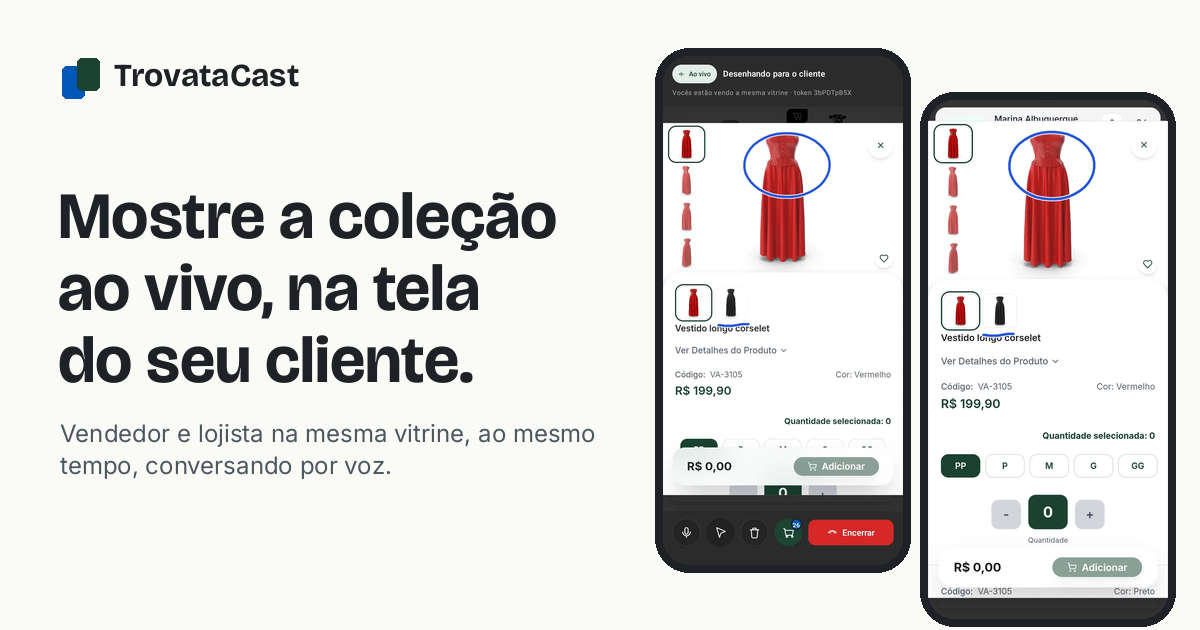
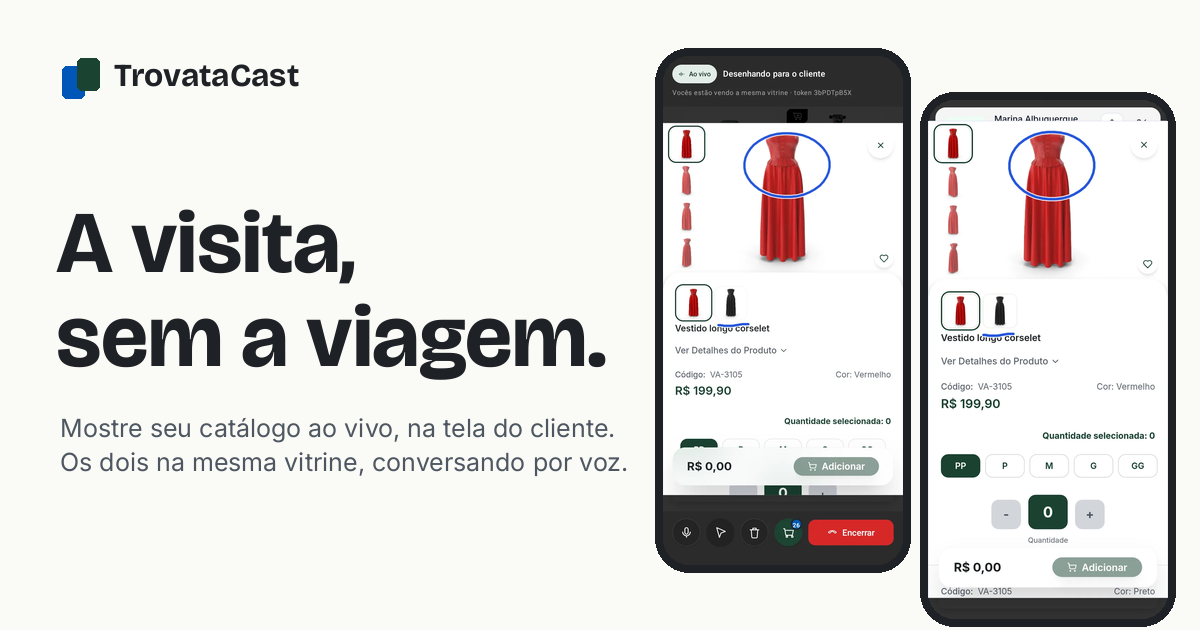
feat: slogan e texto para qualquer mercado

Changed region(s): [[0.0308, 0.3016, 0.5242, 0.6032], [0.0308, 0.6635, 0.5242, 0.754]]

diff --git a/index.html b/index.html
@@ -3,12 +3,12 @@
 <head>
   <meta charset="utf-8">
   <meta name="viewport" content="width=device-width, initial-scale=1">
-  <title>TrovataCast, venda ao vivo na tela do cliente</title>
-  <meta name="description" content="O vendedor liga pelo app e o lojista abre o catálogo no navegador do celular. Os dois navegam juntos pela mesma vitrine, conversando por voz, e o pedido fica pronto na mesma ligação.">
+  <title>TrovataCast, a visita sem a viagem</title>
+  <meta name="description" content="A visita, sem a viagem. O vendedor liga pelo app e o cliente abre o catálogo no navegador do celular. Os dois navegam juntos pela mesma vitrine, conversando por voz, e o pedido fica pronto na mesma ligação.">
   <meta property="og:type" content="website">
   <meta property="og:locale" content="pt_BR">
-  <meta property="og:title" content="TrovataCast, venda ao vivo na tela do cliente">
-  <meta property="og:description" content="Vendedor e lojista na mesma vitrine, ao mesmo tempo, conversando por voz. O pedido nasce dentro da chamada.">
+  <meta property="og:title" content="TrovataCast, a visita sem a viagem">
+  <meta property="og:description" content="Mostre seu catálogo ao vivo, na tela do cliente. Os dois na mesma vitrine, ao mesmo tempo, conversando por voz, e o pedido nasce dentro da chamada.">
   <meta property="og:url" content="https://lourencohn.github.io/trovatacast-site/">
   <meta property="og:image" content="https://lourencohn.github.io/trovatacast-site/assets/img/og.png">
   <meta property="og:image:width" content="1200">
@@ -48,8 +48,8 @@
   <main id="conteudo">
     <section class="abertura envelope" aria-labelledby="titulo-abertura">
       <div class="abertura__texto">
-        <h1 id="titulo-abertura">Mostre a coleção ao vivo, na tela do seu cliente.</h1>
-        <p class="abertura__lead">O vendedor liga pelo app e o lojista abre o catálogo no navegador do celular, sem instalar nada. Os dois navegam juntos pela mesma vitrine, conversando por voz, e o pedido fica pronto antes de desligar.</p>
+        <h1 id="titulo-abertura"><span>A visita,</span> <span>sem a viagem.</span></h1>
+        <p class="abertura__lead">Mostre seu catálogo ao vivo, na tela do cliente. O vendedor liga pelo app e o cliente abre o link no navegador do celular, sem instalar nada. Os dois navegam juntos pela mesma vitrine, conversando por voz, e o pedido fica pronto antes de desligar.</p>
         <div class="acoes">
           <a class="botao" href="#contato">Agendar uma demonstração</a>
           <a class="botao botao--linha" href="#como-funciona">Ver como funciona</a>
@@ -92,8 +92,8 @@
 
     <section class="contraste" aria-labelledby="titulo-contraste">
       <div class="envelope">
-        <h2 id="titulo-contraste">A venda a distância com o que a visita tem de melhor</h2>
-        <p class="intro">O WhatsApp aproximou vendedor e lojista. O TrovataCast coloca os dois diante da mesma vitrine, com a conversa acontecendo junto.</p>
+        <h2 id="titulo-contraste">O que muda na venda a distância</h2>
+        <p class="intro">O WhatsApp aproximou vendedor e cliente. O TrovataCast coloca os dois diante da mesma vitrine, com a conversa acontecendo junto.</p>
         <div class="comparacao" role="table" aria-label="Como costuma ser e como fica com o TrovataCast">
           <div class="comparacao__linha comparacao__cabecalho" role="row">
             <span role="columnheader">Na venda</span>
@@ -101,9 +101,9 @@
             <span role="columnheader">Com o TrovataCast</span>
           </div>
           <div class="comparacao__linha" role="row">
-            <span role="rowheader">Mostrar a coleção</span>
+            <span role="rowheader">Mostrar o catálogo</span>
             <span role="cell">Fotos e PDF enviados um a um</span>
-            <span role="cell">A vitrine completa, com cor, grade e preço, navegada junto</span>
+            <span role="cell">O catálogo completo, com fotos, variações e preço, navegado junto</span>
           </div>
           <div class="comparacao__linha" role="row">
             <span role="rowheader">Tirar uma dúvida</span>
@@ -122,14 +122,14 @@
     <section id="como-funciona" class="percurso" aria-labelledby="titulo-percurso">
       <div class="envelope">
         <h2 id="titulo-percurso">Uma venda do começo ao fim</h2>
-        <p class="intro">Acompanhe a Marina, representante da Vila Aurora Moda, fechando a reposição da Boutique Flor de Lis numa chamada de vinte minutos.</p>
+        <p class="intro">Acompanhe a Marina, representante da Vila Aurora Moda, fechando a reposição da Boutique Flor de Lis numa chamada de vinte minutos. O caminho é o mesmo para qualquer catálogo.</p>
 
         <ol class="passos">
           <li class="passo">
             <div class="passo__texto">
               <span class="passo__numero" aria-hidden="true">1</span>
               <h3>Convide pelo WhatsApp</h3>
-              <p>No compromisso da agenda, um toque gera o link da chamada e abre a conversa com o lojista. O link vale por 24 horas e também aparece como QR para quem está ao lado.</p>
+              <p>No compromisso da agenda, um toque gera o link da chamada e abre a conversa com o cliente. O link vale por 24 horas e também aparece como QR para quem está ao lado.</p>
             </div>
             <div class="passo__telas">
               <div class="aparelho"><div class="aparelho__tela"><img src="assets/img/telas/convite.webp" width="720" height="1528" loading="lazy" alt="Tela de convite gerado, com QR, link da sessão e botão para enviar pelo WhatsApp"></div></div>
@@ -139,7 +139,7 @@
           <li class="passo">
             <div class="passo__texto">
               <span class="passo__numero" aria-hidden="true">2</span>
-              <h3>O lojista entra pelo navegador</h3>
+              <h3>O cliente entra pelo navegador</h3>
               <p>Ele abre o link no celular e cai direto na vitrine, com um aviso de que o vendedor está esperando. Não tem aplicativo para baixar nem cadastro novo.</p>
             </div>
             <div class="passo__telas">
@@ -163,7 +163,7 @@
             <div class="passo__texto">
               <span class="passo__numero" aria-hidden="true">4</span>
               <h3>O pedido se monta na conversa</h3>
-              <p>A grade que o cliente digita aparece no app na mesma hora, com o total atualizado. Quando ele confirma, a vendedora recebe o aviso e vê o pedido em construção, item por item.</p>
+              <p>As quantidades que o cliente digita aparecem no app na mesma hora, com o total atualizado. Quando ele confirma, a vendedora recebe o aviso e vê o pedido em construção, item por item.</p>
             </div>
             <div class="passo__telas passo__telas--par">
               <div class="aparelho aparelho--navegador"><div class="aparelho__tela"><div class="endereco" aria-hidden="true">trovata.app.br</div><img src="assets/img/telas/cliente-grade.webp" width="720" height="1558" loading="lazy" alt="Cliente preenchendo a grade do vestido na cor preta, tamanhos P, M e G"></div></div>
@@ -229,23 +229,12 @@
             <p>A tela inicial junta a agenda de hoje, o resultado de cada chamada e os pedidos fechados, com o total do dia.</p>
           </article>
         </div>
-
-        <div class="base">
-          <div class="base__texto">
-            <h3>Em cima do que a empresa já usa</h3>
-            <p>Clientes, catálogos, preços e carrinhos vêm do SFA e do Catálogo Link da Trovata. Não existe cadastro paralelo, e o representante que atende mais de uma marca escolhe a empresa ao entrar.</p>
-          </div>
-          <div class="base__telas">
-            <div class="aparelho aparelho--recorte aparelho--baixo"><div class="aparelho__tela"><img src="assets/img/telas/clientes.webp" width="720" height="1528" loading="lazy" alt="Carteira de clientes sincronizada com botão de convidar"></div></div>
-            <div class="aparelho aparelho--recorte aparelho--baixo"><div class="aparelho__tela"><img src="assets/img/telas/empresas.webp" width="720" height="1528" loading="lazy" alt="Escolha da empresa ativa entre duas marcas"></div></div>
-          </div>
-        </div>
       </div>
     </section>
 
     <section class="lojista" aria-labelledby="titulo-lojista">
       <div class="envelope">
-        <h2 id="titulo-lojista">Para o lojista, é só abrir um link</h2>
+        <h2 id="titulo-lojista">Para o cliente, é só abrir um link</h2>
         <dl class="garantias">
           <div>
             <dt>Nada para instalar</dt>
@@ -268,19 +257,20 @@
     </section>
 
     <section id="para-quem" class="publico envelope" aria-labelledby="titulo-publico">
-      <h2 id="titulo-publico">Feito para quem vende moda no atacado</h2>
+      <h2 id="titulo-publico">Para quem vende por catálogo, em qualquer mercado</h2>
+      <p class="intro">Moda, calçados, cosméticos, farmácia, alimentos, autopeças, material de construção. Se a sua equipe apresenta produtos para outras empresas, o TrovataCast encurta o caminho até o pedido.</p>
       <div class="perfis">
         <div class="perfil">
-          <h3>Confecções e marcas</h3>
-          <p>Que apresentam coleção para lojistas de várias cidades e não conseguem estar em todas as vitrines na semana do lançamento.</p>
+          <h3>Indústrias e marcas</h3>
+          <p>Que lançam produtos para clientes em várias cidades e não conseguem estar em todas as visitas da semana.</p>
         </div>
         <div class="perfil">
           <h3>Representantes comerciais</h3>
-          <p>Com carteira grande, às vezes de mais de uma marca, que precisam encaixar várias apresentações no mesmo dia.</p>
+          <p>Com carteira grande e espalhada, que precisam encaixar várias apresentações no mesmo dia.</p>
         </div>
         <div class="perfil">
-          <h3>Distribuidoras e atacadistas</h3>
-          <p>Que já vendem pelo Catálogo Link e querem fechar mais pedidos ainda na primeira conversa.</p>
+          <h3>Distribuidores e atacadistas</h3>
+          <p>Que atendem lojas, farmácias, mercados e oficinas e querem fechar o pedido ainda na primeira conversa.</p>
         </div>
       </div>
     </section>
@@ -289,7 +279,7 @@
       <div class="envelope convite-final__grade">
         <div>
           <h2 id="titulo-contato">Veja numa ligação de verdade</h2>
-          <p>Em vinte minutos a gente faz uma chamada com você no papel do lojista, direto no seu celular. Você sente o produto do lado de quem compra.</p>
+          <p>Em vinte minutos a gente faz uma chamada com você no papel do cliente, direto no seu celular. Você sente o produto do lado de quem compra.</p>
           <div class="acoes">
             <a class="botao botao--claro" href="tel:+551836447333">Ligar para (18) 3644-7333</a>
             <a class="botao botao--linha-clara" href="https://www.google.com/maps/search/?api=1&amp;query=Av.+Nelson+Calixto%2C+142%2C+Birigui+-+SP%2C+16200-320" target="_blank" rel="noopener">Ver o endereço no mapa</a>
@@ -306,7 +296,7 @@
           </dl>
         </div>
         <div class="convite-final__tela">
-          <div class="aparelho aparelho--navegador aparelho--recorte"><div class="aparelho__tela"><div class="endereco" aria-hidden="true">trovata.app.br</div><img src="assets/img/telas/cliente-ao-vivo.webp" width="720" height="1558" loading="lazy" alt="Vitrine no navegador do lojista com o aviso Ao vivo e o nome da vendedora"></div></div>
+          <div class="aparelho aparelho--navegador aparelho--recorte"><div class="aparelho__tela"><div class="endereco" aria-hidden="true">trovata.app.br</div><img src="assets/img/telas/cliente-ao-vivo.webp" width="720" height="1558" loading="lazy" alt="Vitrine no navegador do cliente com o aviso Ao vivo e o nome da vendedora"></div></div>
         </div>
       </div>
     </section>

diff --git a/assets/css/site.css b/assets/css/site.css
@@ -231,6 +231,7 @@ a {
 }
 
 .marca__sinal {
+  flex-shrink: 0;
   width: 1.75rem;
   height: 1.75rem;
 }
@@ -311,9 +312,6 @@ a {
   background: linear-gradient(to bottom, rgba(255, 255, 255, 0), var(--superficie));
 }
 
-.aparelho--baixo .aparelho__tela {
-  aspect-ratio: 720 / 760;
-}
 
 .abertura {
   display: grid;
@@ -321,6 +319,16 @@ a {
   align-items: center;
   gap: clamp(2rem, 5vw, 4.5rem);
   padding-block: clamp(2.5rem, 6vw, 5rem) var(--respiro);
+}
+
+.abertura h1 {
+  font-size: clamp(2.75rem, 5.6vw, 5.25rem);
+  line-height: 0.98;
+}
+
+.abertura h1 span {
+  display: block;
+  white-space: nowrap;
 }
 
 .abertura__lead {
@@ -565,8 +573,7 @@ a {
   margin-top: 3rem;
 }
 
-.destaque__texto p,
-.base__texto p {
+.destaque__texto p {
   margin-top: 0.85rem;
   color: var(--tinta-2);
   max-width: 44ch;
@@ -605,24 +612,7 @@ a {
   color: var(--tinta-2);
 }
 
-.base {
-  display: grid;
-  grid-template-columns: minmax(0, 1fr) minmax(0, 1fr);
-  gap: clamp(2rem, 5vw, 4rem);
-  align-items: center;
-  margin-top: clamp(3.5rem, 8vw, 6rem);
-  padding: clamp(1.75rem, 4vw, 3rem);
-  background: var(--superficie);
-  border-radius: 28px;
-  border: 1px solid var(--linha);
-}
 
-.base__telas {
-  display: grid;
-  grid-template-columns: repeat(2, minmax(0, 220px));
-  gap: 1rem;
-  justify-content: center;
-}
 
 .lojista {
   padding-block: var(--respiro);
@@ -795,8 +785,7 @@ a {
 
   .passo,
   .passo:nth-child(even),
-  .destaque,
-  .base {
+  .destaque {
     grid-template-columns: minmax(0, 1fr);
   }
 
@@ -959,10 +948,6 @@ a {
     grid-template-columns: minmax(0, 1fr);
   }
 
-  .base {
-    padding: 1.5rem;
-    border-radius: 22px;
-  }
 }
 
 @media (prefers-reduced-motion: reduce) {
